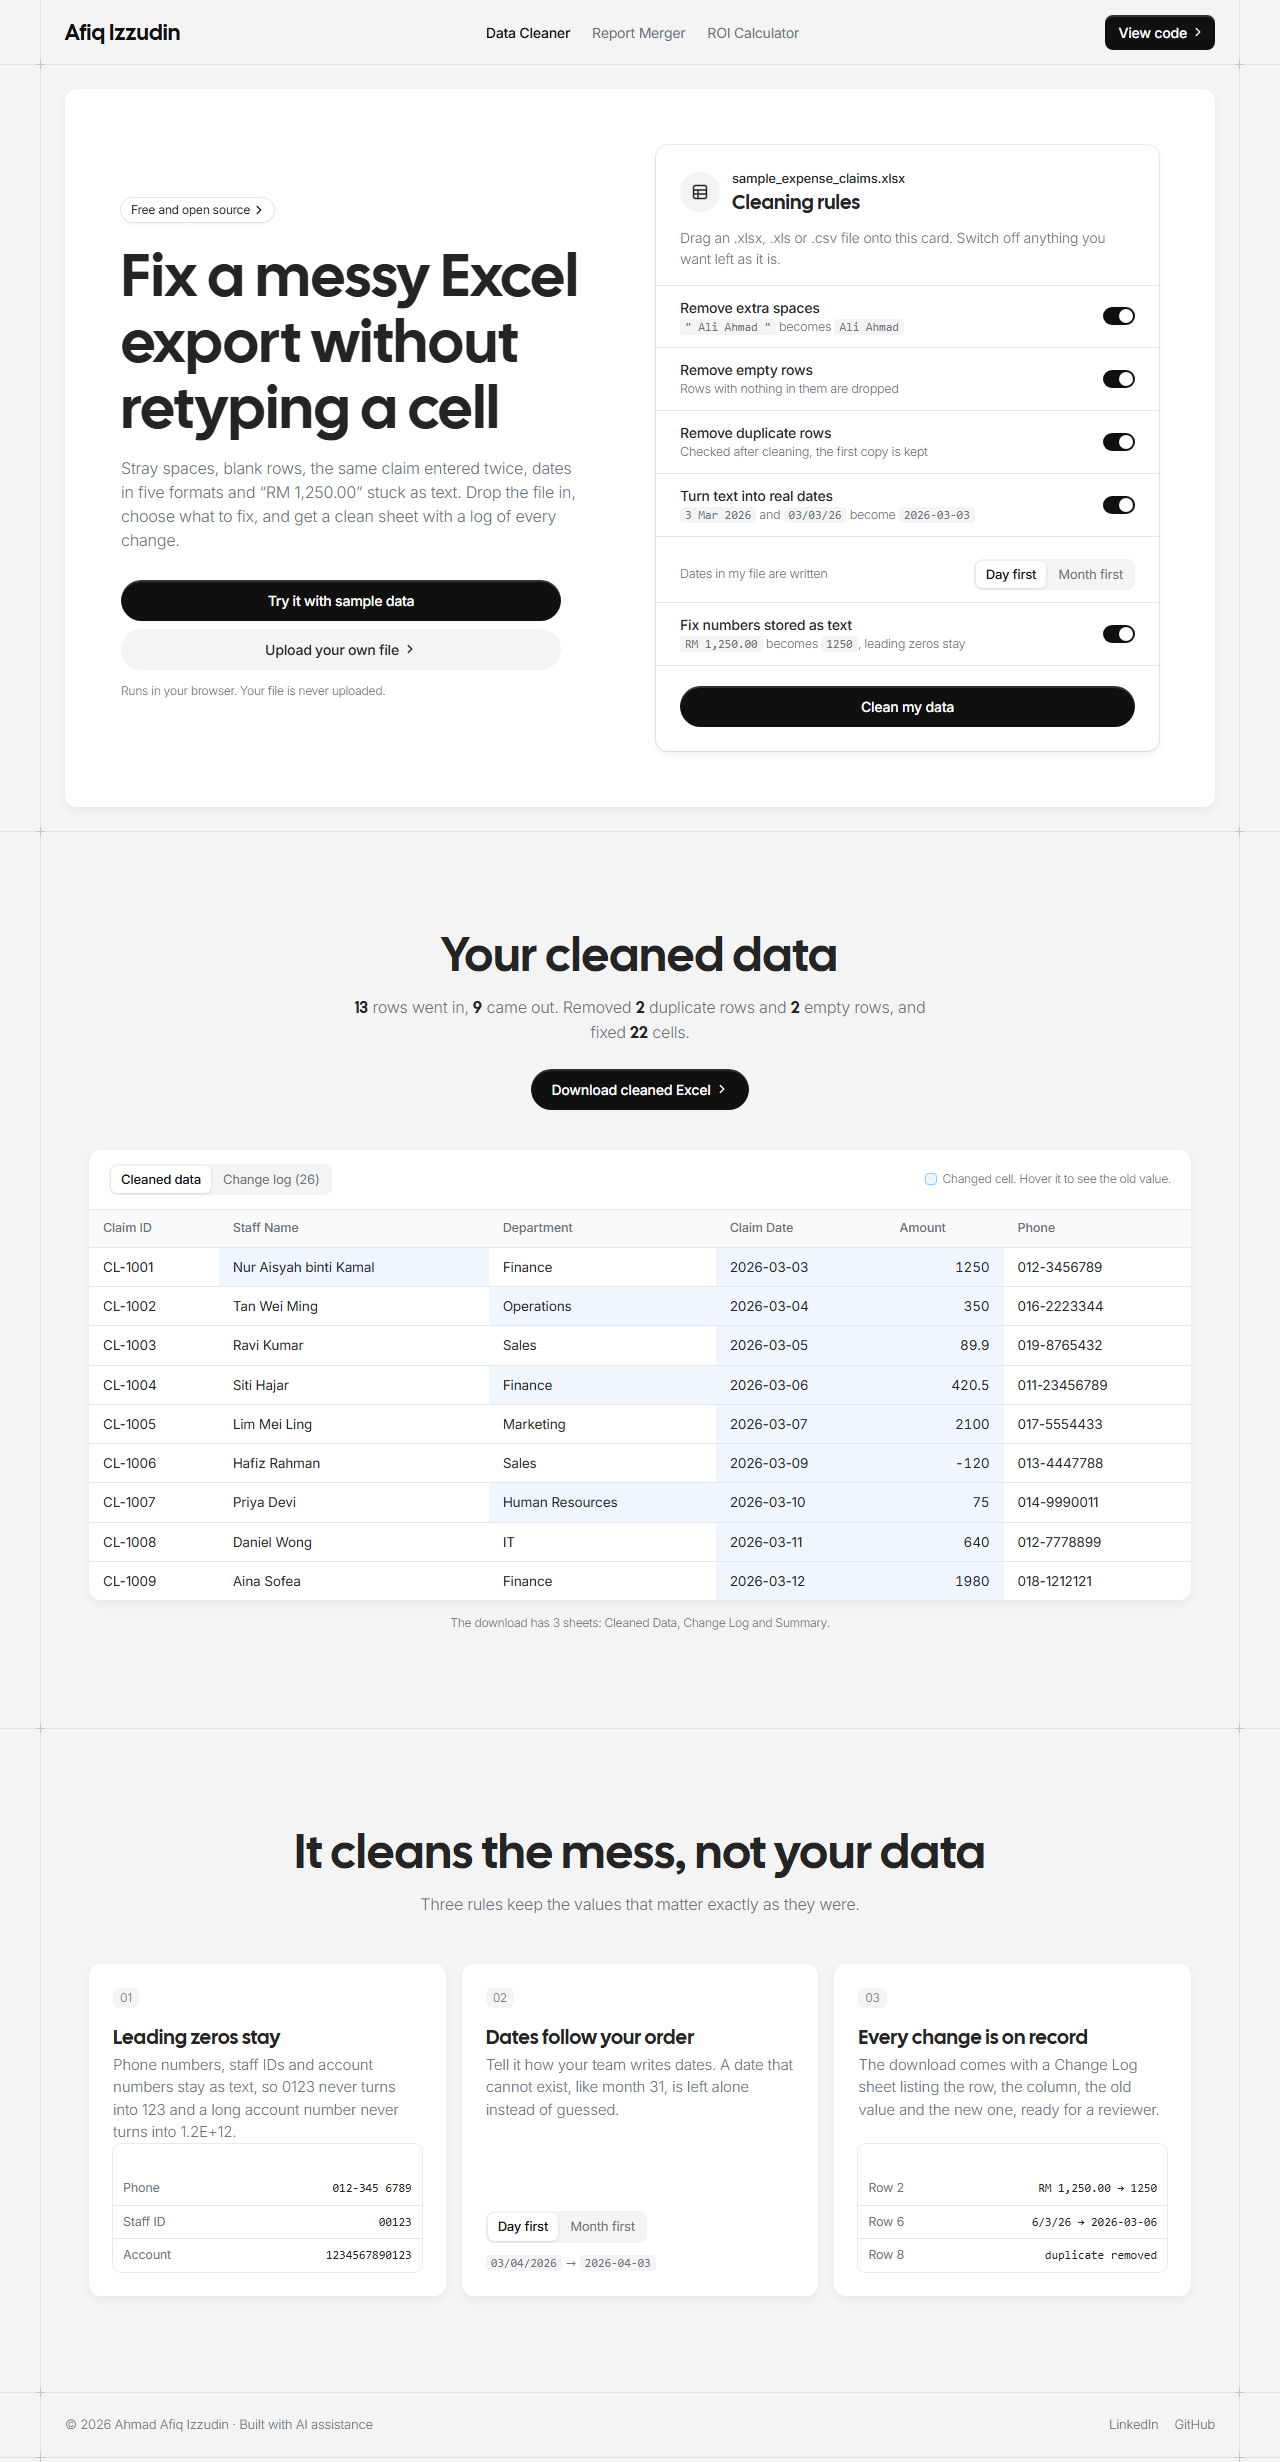
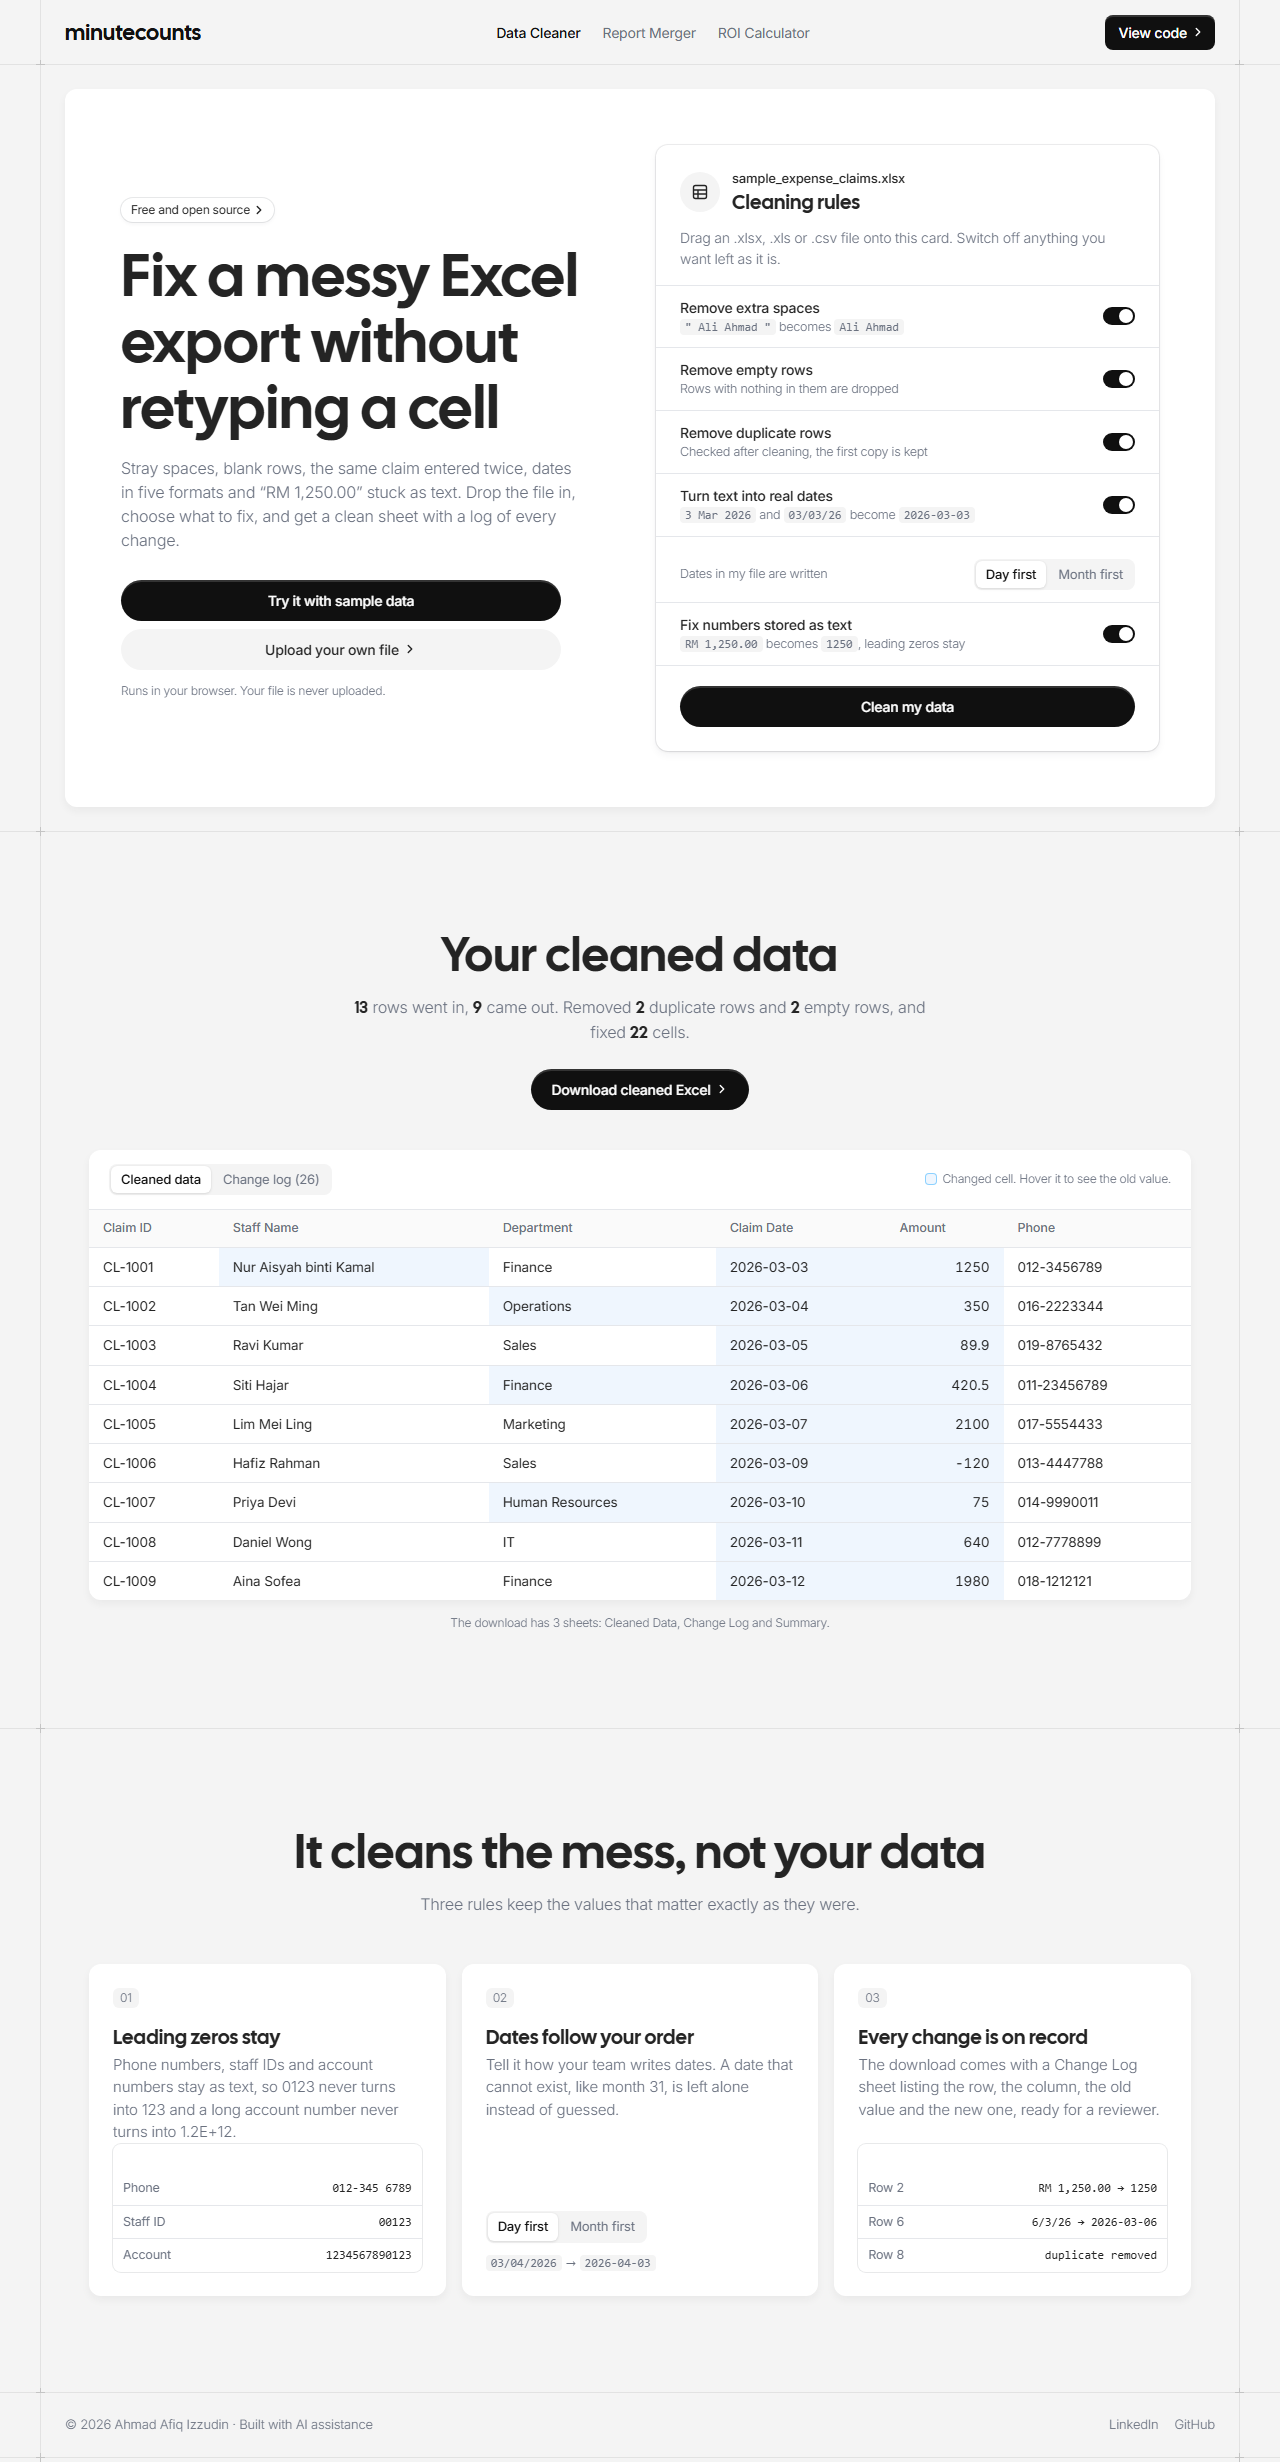
Rename the header wordmark to minutecounts

diff --git a/index.html b/index.html
@@ -185,7 +185,7 @@
 <body>
 <header class="band">
   <div class="frame bar">
-    <a class="wordmark" href="https://www.linkedin.com/in/afiq-izzudin-27aaa936b">Afiq Izzudin</a>
+    <a class="wordmark" href="https://www.linkedin.com/in/afiq-izzudin-27aaa936b">minutecounts</a>
     <nav class="nav" aria-label="Office Toolkit">
       <a href="../excel-data-cleaner/" aria-current="page">Data Cleaner</a>
       <a href="../excel-report-merger/">Report Merger</a>
